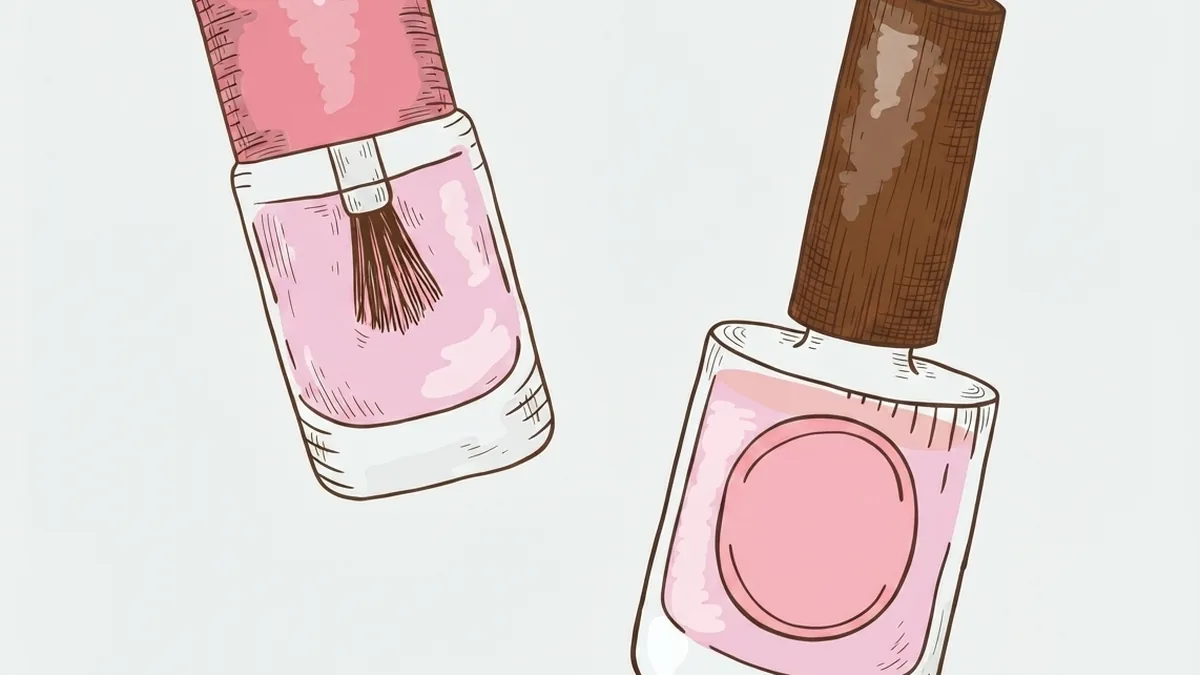
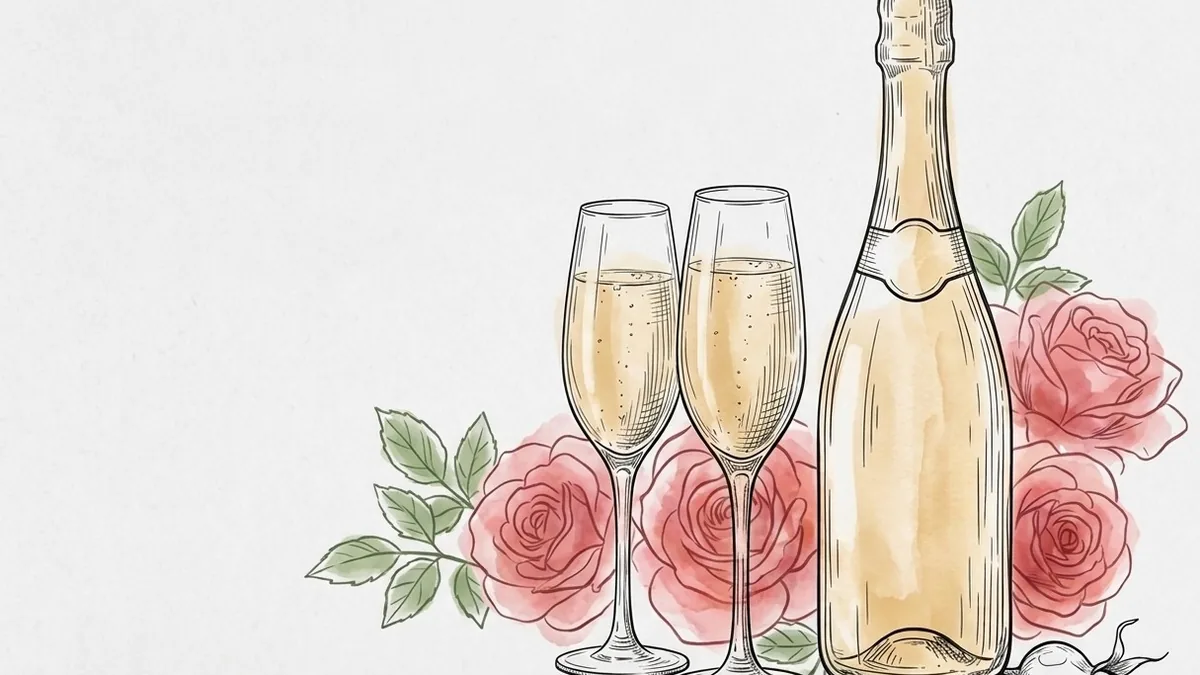
Mas imagenes

diff --git a/servicios.html b/servicios.html
@@ -262,7 +262,7 @@
         <div class="treatment-grid reveal-stagger">
 
           <div class="treatment-card">
-            <div class="treatment-card__art"><svg viewBox="0 0 100 60" fill="none" xmlns="http://www.w3.org/2000/svg"><rect x="32" y="24" width="13" height="24" rx="3" stroke="#B4694A" stroke-width="2"/><rect x="35.5" y="16" width="6" height="9" rx="1.5" stroke="#B4694A" stroke-width="2"/><rect x="55" y="18" width="13" height="30" rx="3" stroke="#B4694A" stroke-width="2"/><rect x="58.5" y="10" width="6" height="9" rx="1.5" stroke="#B4694A" stroke-width="2"/><circle cx="38.5" cy="34" r="2" fill="#C9A227"/><circle cx="61.5" cy="30" r="2" fill="#C9A227"/></svg></div>
+            <div class="treatment-card__art"><img src="assets/img/treatment-traditional.webp" alt="Rose-pink nail polish bottles for the Traditional pedicure" loading="lazy"></div>
             <h3 class="treatment-card__name">Traditional</h3>
             <div class="treatment-card__prices">
               <div class="treatment-chip"><span class="treatment-chip__amount">$35</span><span class="treatment-chip__label">Pedi · 30m</span></div>
@@ -406,7 +406,7 @@
           </div>
 
           <div class="treatment-card">
-            <div class="treatment-card__art"><img src="assets/img/treatment-champagne-rose.webp" alt="Rose-pink nail polish bottles for the Broadway Champagne &amp; Rose pedicure" loading="lazy"></div>
+            <div class="treatment-card__art"><img src="assets/img/treatment-champagne-rose.webp" alt="Champagne bottle, glasses, and roses for the Broadway Champagne &amp; Rose pedicure" loading="lazy"></div>
             <h3 class="treatment-card__name">Broadway Champagne &amp; Rose</h3>
             <div class="treatment-card__prices">
               <div class="treatment-chip"><span class="treatment-chip__amount">$120</span><span class="treatment-chip__label">Pedi · 85m</span></div>
